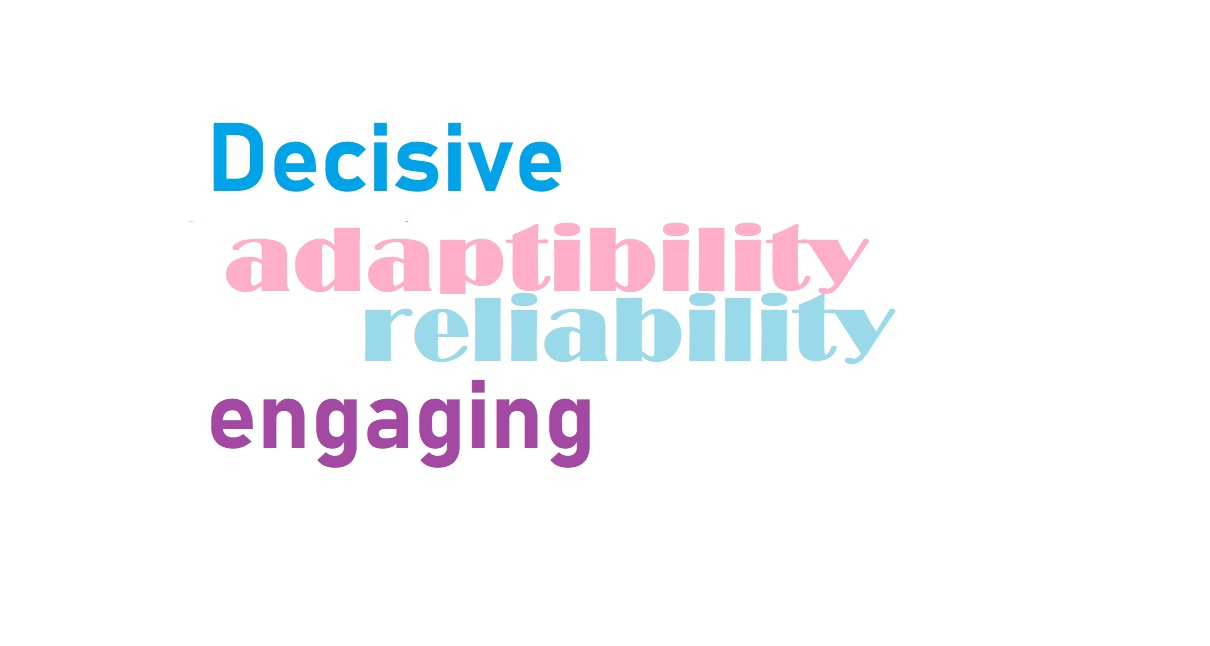
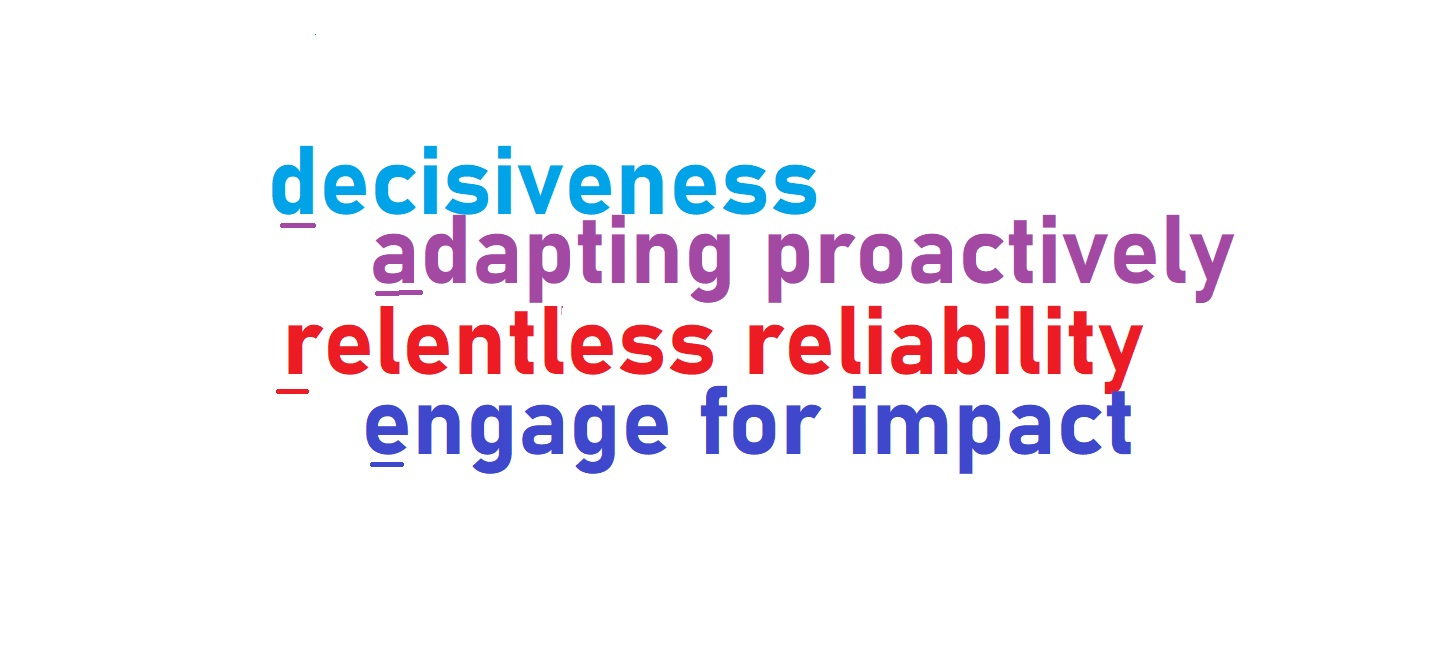
changes

Changed region(s): [[0.1529, 0.1858, 0.8562, 0.743]]

diff --git a/_posts/2020-05-25-posts.md b/_posts/2020-05-25-posts.md
@@ -1,10 +1,14 @@
 ---
 layout: post
-title: "Key Attributes of a Great Leader"
+title: "4 key behaviours of a Great Leader (DARE)"
 excerpt_separator:  <!--more-->
 ---
 
 <img src="/blog/images/dare.jpg" alt="Dare">
+
+<div>
+Courtesy : Reference from the book The CEO Next Door
+</div>
 
 <script type="text/javascript" src="https://platform-api.sharethis.com/js/sharethis.js#property=5eaba5f77525e90012616b98&product=inline-share-buttons" async="async"></script>
 
